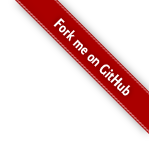
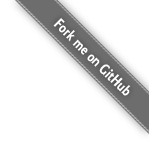
fix(startPage): fix carousel control and grayscale
-- changed carousel control to percentage usage
-- added grayscale modi for all browsers except IE10

Related to: #CAM-1175

Changed region(s): [[0.1074, 0.0, 1.0, 0.9128]]

diff --git a/site/src/files/assets/css/app.css b/site/src/files/assets/css/app.css
@@ -199,18 +199,33 @@ span.intellij-textDesc {
   margin-bottom: 0;
 }
 
-.carousel-control.right {
-  left: auto;
-  right: 400px;
+@media(max-width: 950px) {
+  .carousel-control.right {
+    left: auto;
+    right: 1%;
+  }
+
+  .carousel-control {
+    left: 5%;
+  }
 }
 
-.carousel-control {
-  left: 400px;
-  color: white !important;
-}
+@media(min-width: 951px) {
+  .carousel-control.right {
+    left: auto;
+    right: 15%;
+  }
 
+  .carousel-control {
+    left: 15%;
+  }
+}
 .carousel-link {
   line-height: 35px;
+}
+
+a.carousel-control {
+  color: white !important;
 }
 
 .carousel-button {
@@ -249,15 +264,12 @@ span.intellij-textDesc {
   filter: gray; /* IE */
   filter: url('filters.svg#grayscale'); /* Gecko */
   -webkit-filter: grayscale(1); /* Old WebKit */
-
-  /*filter: url(filters.svg#grayscale);
-  filter: gray;
-  -webkit-filter: grayscale(100%);*/
 }
 
 .quick-links > li {
   display: inline-block;
   vertical-align: top;
+  margin: 0 2px;
 }
 
 .quick-links > li:last-child {
@@ -561,7 +573,7 @@ img {
   -ms-filter: progid:DXImageTransform.Microsoft.AlphaImageLoader(
 src='../assets/img/as7-tile.png',
 sizingMethod='scale');
-}
+  }
 
 .glassfish-ie8 {
   background-image: none;
@@ -571,7 +583,7 @@ sizingMethod='scale');
   -ms-filter: progid:DXImageTransform.Microsoft.AlphaImageLoader(
 src='../assets/img/glassfish-tile.png',
 sizingMethod='scale');
-}
+  }
 
 .tomcat-ie8 {
   background-image: none;
@@ -581,7 +593,7 @@ sizingMethod='scale');
   -ms-filter: progid:DXImageTransform.Microsoft.AlphaImageLoader(
 src='../assets/img/tomcat-tile.png',
 sizingMethod='scale');
-}
+  }
 
 .container-small {
   display: inline-block;
@@ -1014,4 +1026,3 @@ h1, h2, h3, h4 {
   display: block !important;
   visibility: visible !important;
 }
-
